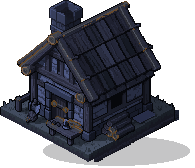
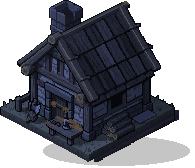
Gece görsellerinde sönük turuncu hâle de temizlendi (model denetimi)
Claude-Session: https://claude.ai/code/session_01UDmPYyAuKDS6r7CGECjndN

diff --git a/motor-deneme-5b8e2f/uretim/turuncu_sil.py b/motor-deneme-5b8e2f/uretim/turuncu_sil.py
@@ -5,6 +5,9 @@ import sys, colorsys
 import numpy as np
 from PIL import Image
 kok, cikis = sys.argv[1], sys.argv[2]
+# --gevsek: sönük turuncu hâleyi de yakala (s>0.28, v>0.22)
+GEVSEK = '--gevsek' in sys.argv
+if GEVSEK: sys.argv.remove('--gevsek')
 def hsv(c): return colorsys.rgb_to_hsv(*(v/255 for v in c[:3]))
 def turuncu(c, s0=0.4, v0=0.4):
     h,s,v=hsv(c); return 0.05<h<0.18 and s>s0 and v>v0
@@ -17,7 +20,7 @@ for ad in sys.argv[3:]:
     mask=np.zeros((H,W),bool)
     for y in range(H):
         for x in range(W):
-            if g[y,x,3]>100 and b[y,x,3]>100 and turuncu(g[y,x]) and sicak(b[y,x]): mask[y,x]=True
+            if g[y,x,3]>100 and b[y,x,3]>100 and (turuncu(g[y,x],0.28,0.22) if GEVSEK else turuncu(g[y,x])) and sicak(b[y,x]): mask[y,x]=True
     # gece = A*gündüz + c (kanal başına), turuncu olmayan opak piksellerden
     ok=(g[...,3]>200)&(b[...,3]>200)&~mask
     out=g.copy()
